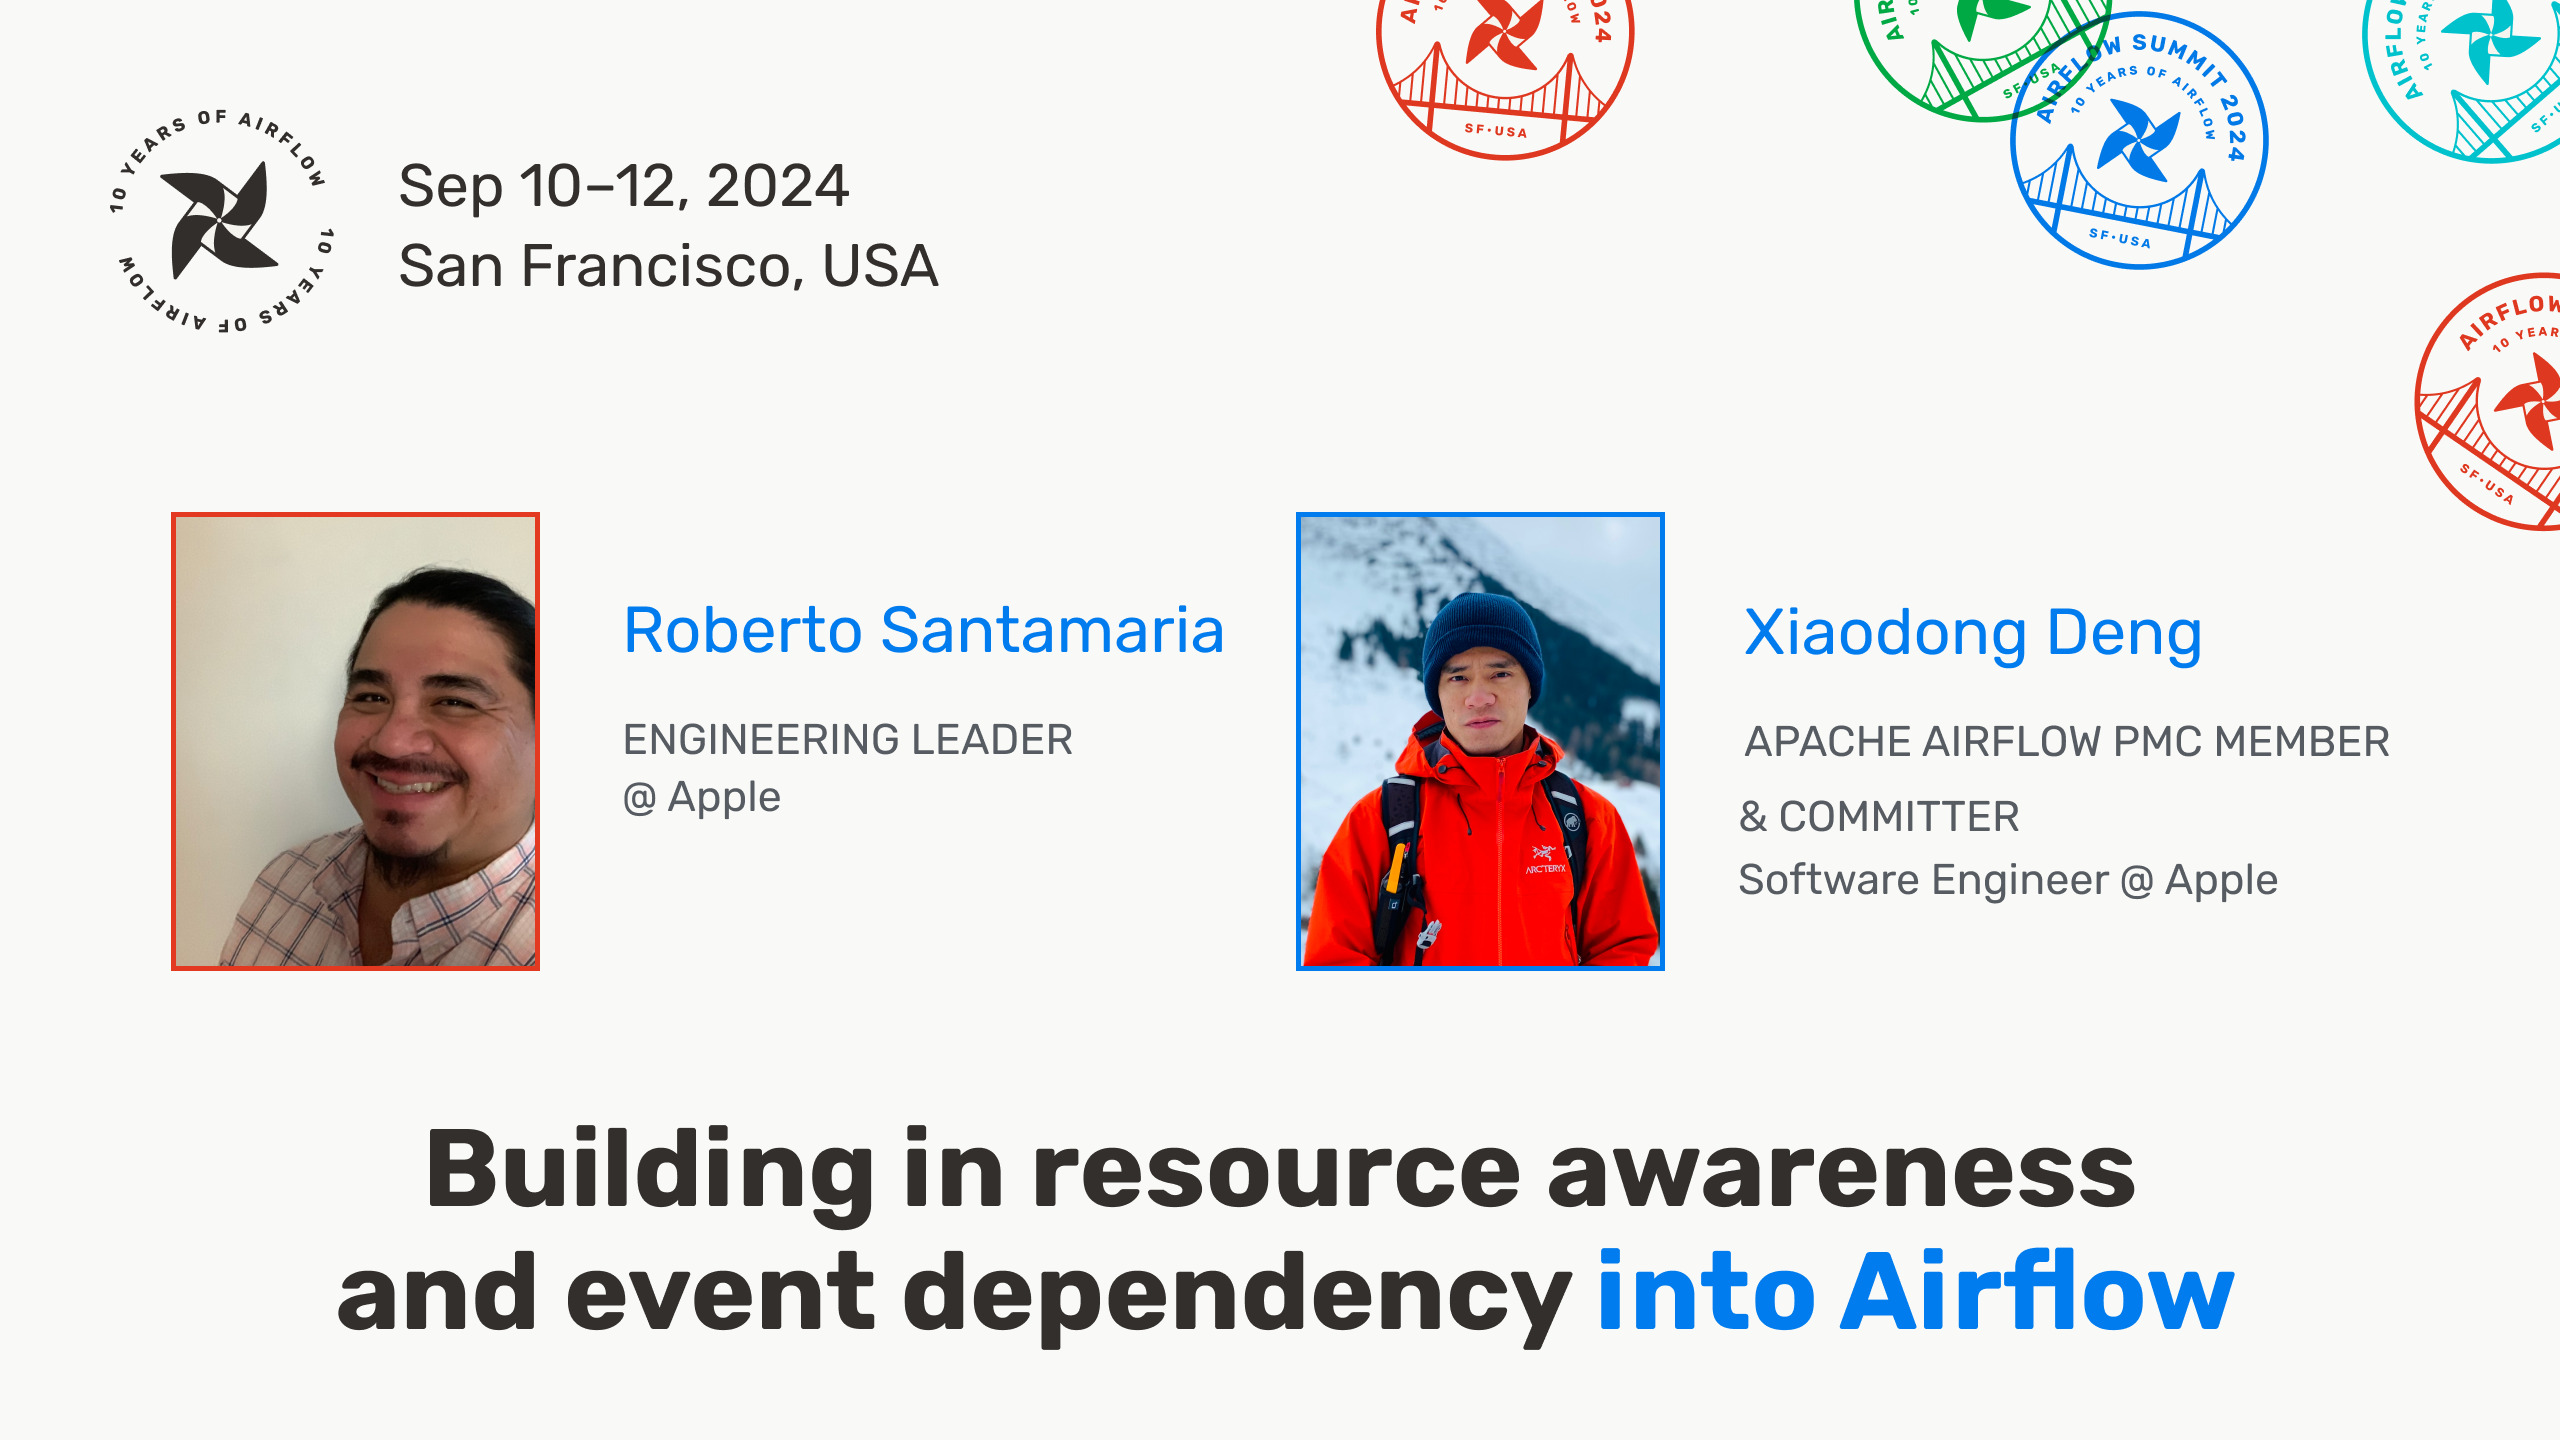
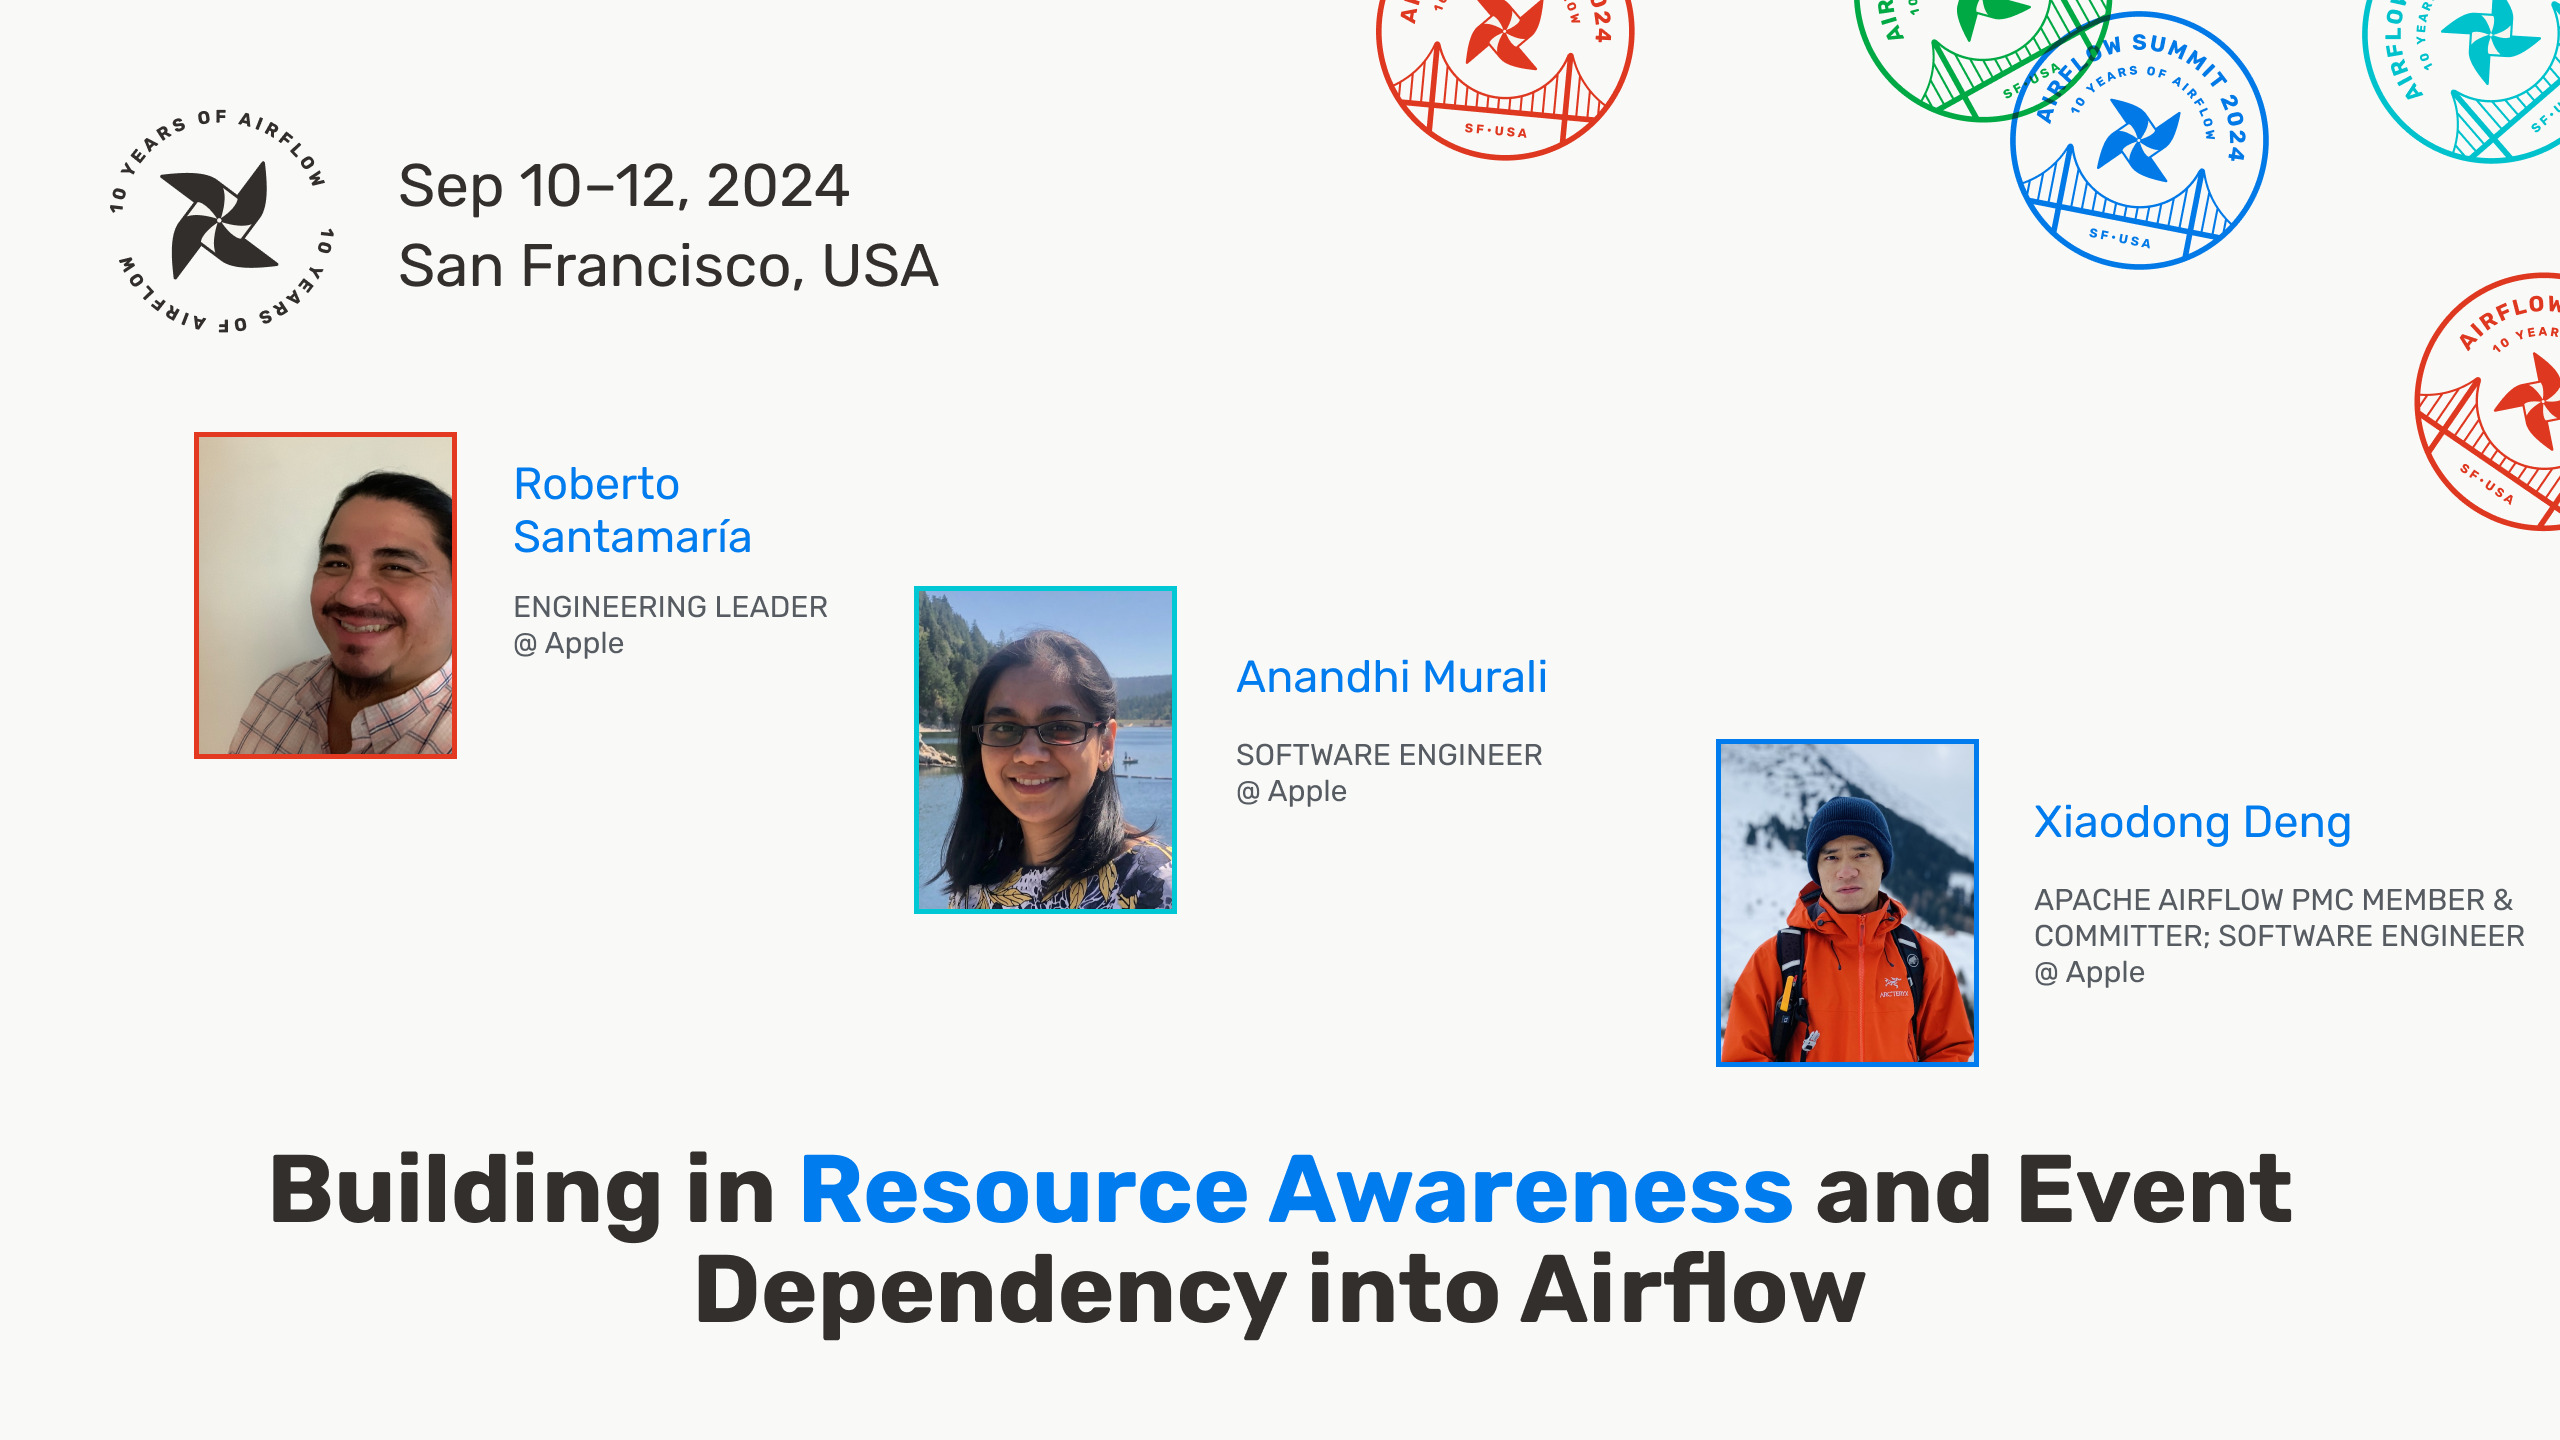
Anandhi Murali

Changed region(s): [[0.0625, 0.2812, 1.0, 0.75], [0.0938, 0.7812, 0.9062, 0.9375], [0.6875, 0.4062, 0.875, 0.4688]]

diff --git a/content/sessions/2024/61-building-in-resource-awareness-and-event-dependency-into-airflow.md b/content/sessions/2024/61-building-in-resource-awareness-and-event-dependency-into-airflow.md
@@ -4,6 +4,7 @@ slug: building-in-resource-awareness-and-event-dependency-into-airflow
 speakers:
  - Roberto Santamaria
  - Xiaodong Deng
+ - Anandhi Murali
 time_start: 2024-09-11 14:30:00
 time_end: 2024-09-11 14:55:00
 room: California West
@@ -17,10 +18,6 @@ images:
 
 In this talk, we will explore how adding custom dependency checks into Airflow’s scheduling system can elevate Airflow’s performance. 
  
+We will specifically discuss how we added general upstream events dependency checking as well as how to make Airflow aware of used/available compute resources so that the system can better decide when and where to run a given task on Kubernetes infrastructure.
  
- 
- We will specifically discuss how we added general upstream events dependency checking as well as how to make Airflow aware of used/available compute resources so that the system can better decide when and where to run a given task on Kubernetes infrastructure.
- 
- 
- 
- We’ll cover why the existing dependency checking in Airflow is not sufficient in our use case, and why adding custom code to Airflow is needed. We’ll cover the pros and cons with this approach.
+We’ll cover why the existing dependency checking in Airflow is not sufficient in our use case, and why adding custom code to Airflow is needed. We’ll cover the pros and cons with this approach.

diff --git a/content/speakers/robby-dick/_index.md b/content/speakers/robby-dick/_index.md
@@ -9,6 +9,7 @@ linkedin: https://www.linkedin.com/in/robby-dick-02230539/
 github: 
 events:
  - 2024
+draft: true
 ---
 
 Robby is a Principal Solutions Marketing Manager on the Digital Business Automation team at BMC Software.  He spends much of his time talking with both existing and potential customers about the current and near-term future state of automation and how Control-M can help deliver better business outcomes.  Robby joined BMC Software in 1999 and prior to that was a UNIX systems administrator in the Chicago area at companies in the energy, financial services, and manufacturing industries.  He has a B.S. in Computer Science from the University of St. Francis in Joliet, IL. Robby and his wife reside in northwest Alabama and enjoy visiting and spending time with their 4 children. 

diff --git a/content/speakers/anandhi-murali/_index.md b/content/speakers/anandhi-murali/_index.md
@@ -1,0 +1,15 @@
+---
+title: "Anandhi Murali"
+date: 2024-08-20T19:23:41-05:00
+images: 
+ - /images/speakers/anandhi-murali.jpg
+designation: Software Engineer at Apple
+twitter: 
+linkedin: 
+github: 
+events:
+ - 2024
+---
+
+Experienced Software Engineer with a demonstrated history of working in the information technology and services industry. Worked on building web applications, event based processing and data orchestration systems.
+
